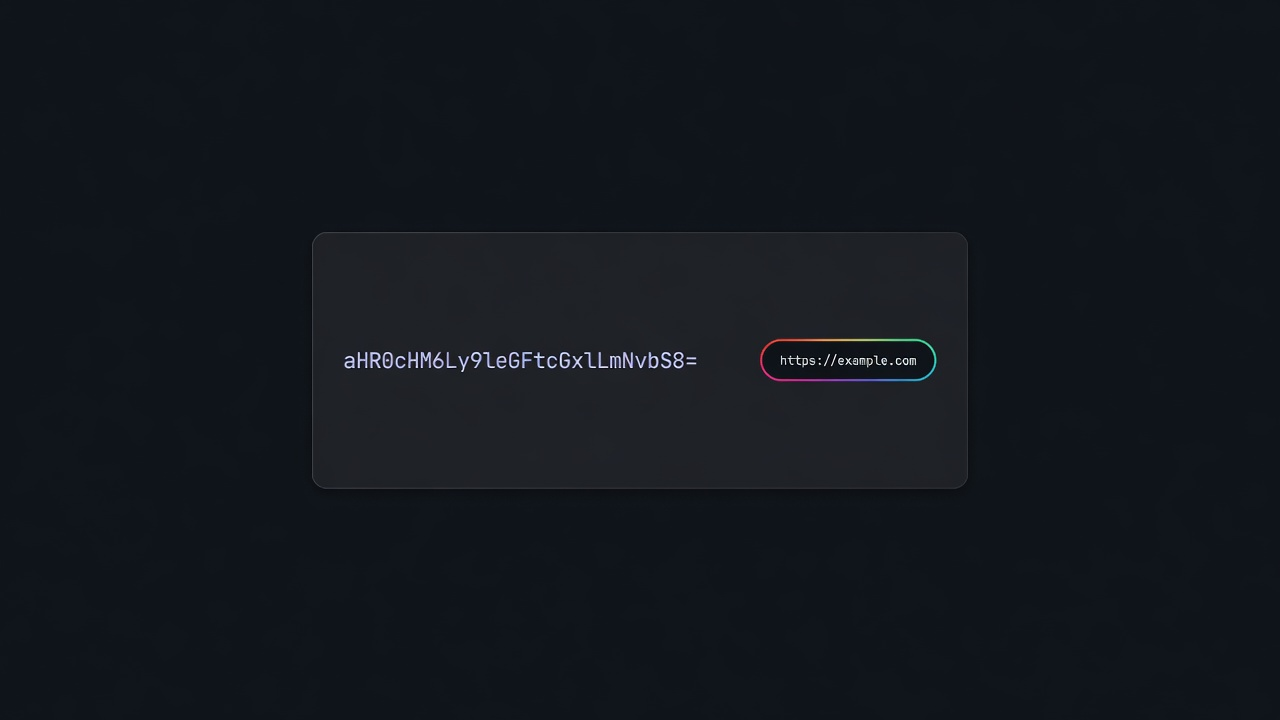
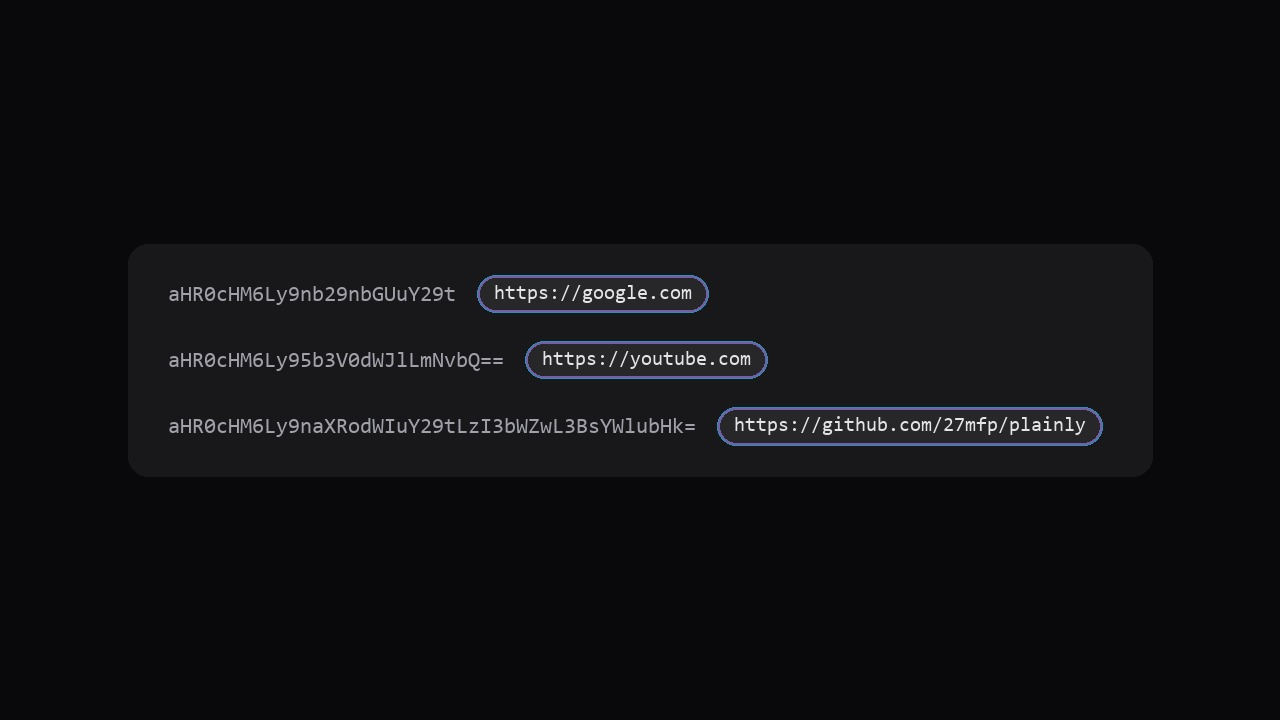
Add PT-PT README, repo URL example, and accurate demo image
Document the project URL as the coded example, add Portuguese (Portugal) README with cross-links, and ship a code-rendered demo of Google, YouTube, and the repo decoding cleanly.

Changed region(s): [[0.125, 0.3667, 0.875, 0.7028], [0.25, 0.3056, 0.75, 0.3361]]

diff --git a/README.pt-PT.md b/README.pt-PT.md
@@ -1,0 +1,84 @@
+<p align="center">
+  <img src="icons/icon128.png" width="96" height="96" alt="Plainly" />
+</p>
+
+<h1 align="center">Plainly</h1>
+
+<p align="center">
+  <strong>Texto codificado → texto simples que consegues ler.</strong><br />
+  Funciona no Reddit de imediato. Podes adicionar outros sites no menu.
+</p>
+
+<p align="center">
+  <a href="./README.md">English</a>
+  ·
+  <a href="https://github.com/27mfp/plainly">GitHub</a>
+</p>
+
+<p align="center">
+  <img src="docs/demo-v2.png" alt="Linhas codificadas e texto simples (Google, YouTube, este projeto)" width="720" />
+</p>
+
+---
+
+## O que faz
+
+Alguns posts escondem links ou mensagens em códigos longos. O **Plainly** encontra-os e mostra a versão legível ao lado.
+
+- Funciona sozinho no Reddit  
+- Podes acrescentar mais sites  
+- Se o texto for um link, podes abri-lo  
+- Copiar com um clique  
+- Nada é enviado para servidores — ver [PRIVACY.md](./PRIVACY.md)
+
+## Exemplo
+
+O endereço deste projeto, em código:
+
+```text
+aHR0cHM6Ly9naXRodWIuY29tLzI3bWZwL3BsYWlubHk=
+```
+
+O Plainly mostra: `https://github.com/27mfp/plainly`
+
+## Instalar
+
+1. Abre o Chrome → `chrome://extensions`  
+2. Liga o **Modo de programador**  
+3. Clica em **Carregar sem compactação** e escolhe esta pasta  
+4. Abre o Reddit (ou um site que tenhas adicionado) e **atualiza** o separador  
+
+Podes fixar o Plainly no menu do puzzle do Chrome.
+
+**Código:** [github.com/27mfp/plainly](https://github.com/27mfp/plainly)
+
+## Como usar
+
+| Queres… | Faz isto |
+| --- | --- |
+| Ler o texto simples | Procura a etiqueta cinzenta ao lado do código |
+| Abrir um link | Clica no endereço na etiqueta |
+| Copiar | Clica no ícone de copiar |
+| Usar o site em que estás | Menu → **Add this site** → permitir → **atualizar** a página |
+| Adicionar outro site | Menu → escreve `example.com` → **Add** → permitir → **atualizar** |
+| Remover um site | Menu → **×** ao lado do nome |
+| Desligar | Menu → interruptor **On** |
+| Testar um código à mão | Cola em **Try a code** |
+
+## Para programadores
+
+```bash
+npm test
+npm run icons
+```
+
+Como contribuir: [CONTRIBUTING.md](./CONTRIBUTING.md)  
+README em inglês: [README.md](./README.md)
+
+## Privacidade e segurança
+
+- Sem tracking, sem contas, sem servidores remotos  
+- O Reddit vem incluído; outros sites só depois de autorizares  
+- Guarda só: ligado/desligado e a lista de sites  
+
+[Privacidade](./PRIVACY.md) · [Segurança](./SECURITY.md) · [Licença (MIT)](./LICENSE)

diff --git a/README.md b/README.md
@@ -10,13 +10,15 @@
 </p>
 
 <p align="center">
+  <a href="./README.pt-PT.md">Português (PT)</a>
+  ·
   <a href="https://github.com/27mfp/plainly"><img alt="GitHub" src="https://img.shields.io/badge/github-27mfp%2Fplainly-18181b?style=flat-square" /></a>
   <img alt="Version" src="https://img.shields.io/badge/version-1.4.0-18181b?style=flat-square" />
   <img alt="License" src="https://img.shields.io/badge/license-MIT-52525b?style=flat-square" />
 </p>
 
 <p align="center">
-  <img src="docs/screenshot.png" alt="Coded line with plain text next to it" width="640" />
+  <img src="docs/demo-v2.png" alt="Coded lines decoded to Google, YouTube, and this repo" width="720" />
 </p>
 
 ---
@@ -33,11 +35,13 @@ Some posts hide links or messages as long coded strings. **Plainly** finds them 
 
 ## Example
 
+This project’s own page, as coded text:
+
 ```text
-aHR0cHM6Ly9tZWdhdHVnYS5pby8=
+aHR0cHM6Ly9naXRodWIuY29tLzI3bWZwL3BsYWlubHk=
 ```
 
-Plainly shows: `https://megatuga.io/`
+Plainly shows: [`https://github.com/27mfp/plainly`](https://github.com/27mfp/plainly)
 
 ## Install
 
@@ -74,13 +78,17 @@ npm run icons
 plainly/
 ├── manifest.json      Chrome extension settings
 ├── icons/             App icons
-├── docs/              Screenshot
+├── docs/demo.png      Demo image
 ├── src/               Extension code
 ├── popup.*            Toolbar menu
 └── test/              Tests and local preview page
 ```
 
 How to contribute: [CONTRIBUTING.md](./CONTRIBUTING.md)
+
+## Other languages
+
+- [Português (Portugal)](./README.pt-PT.md)
 
 ## Privacy & security
 
